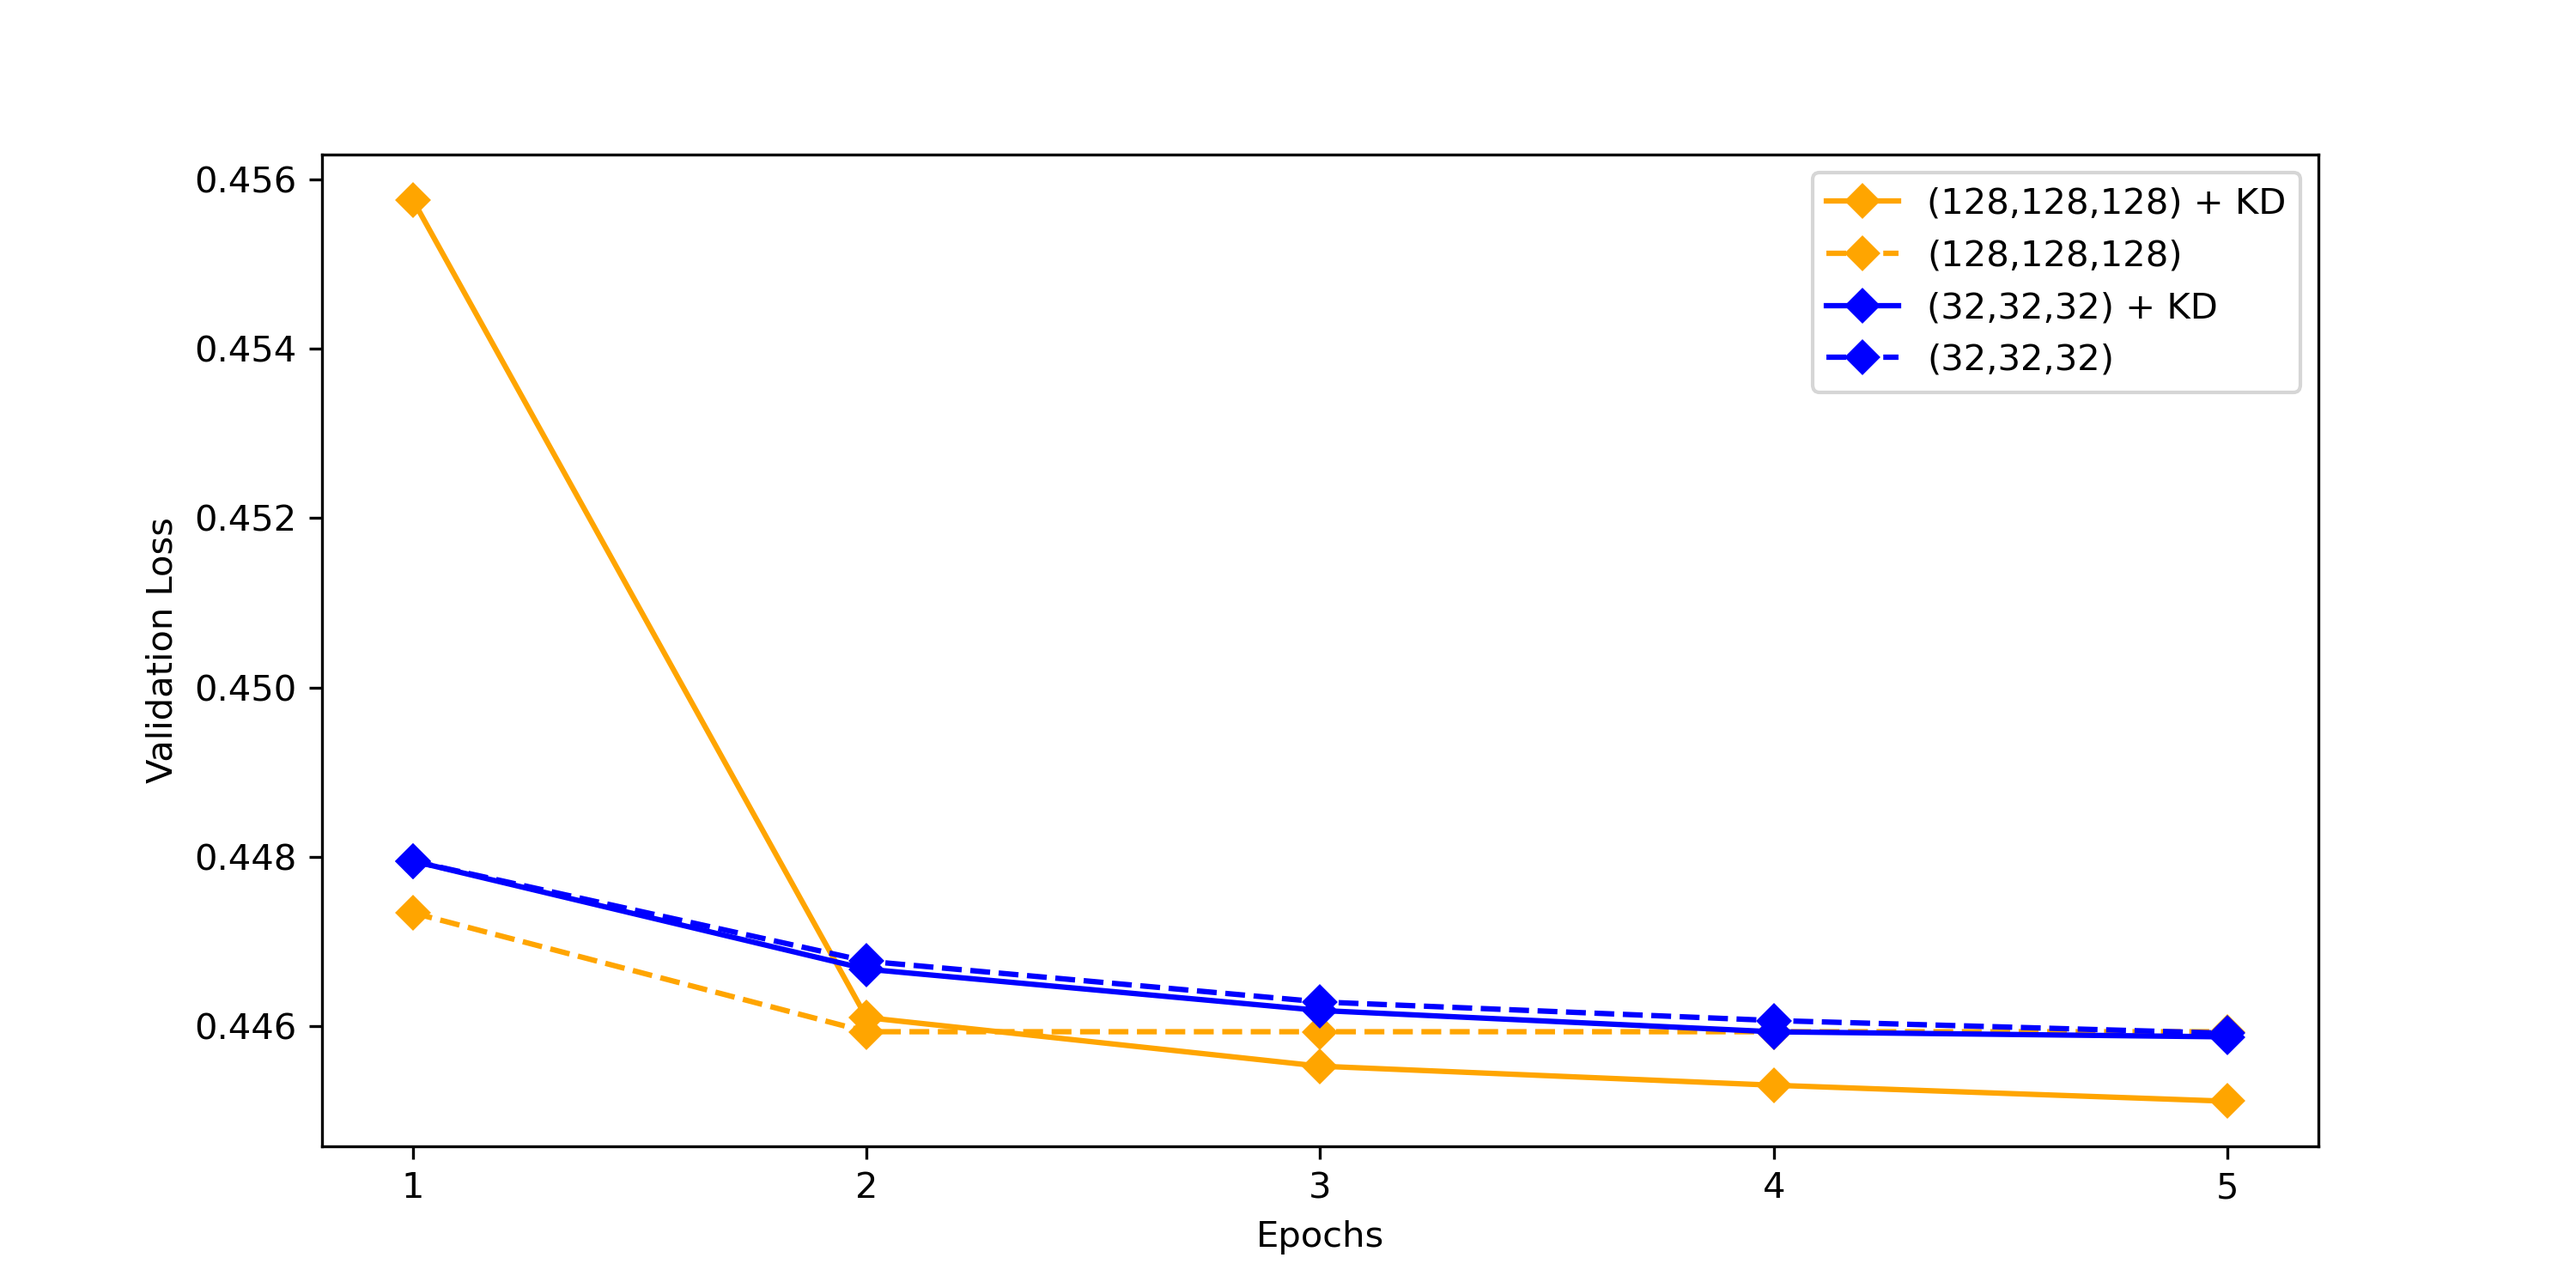
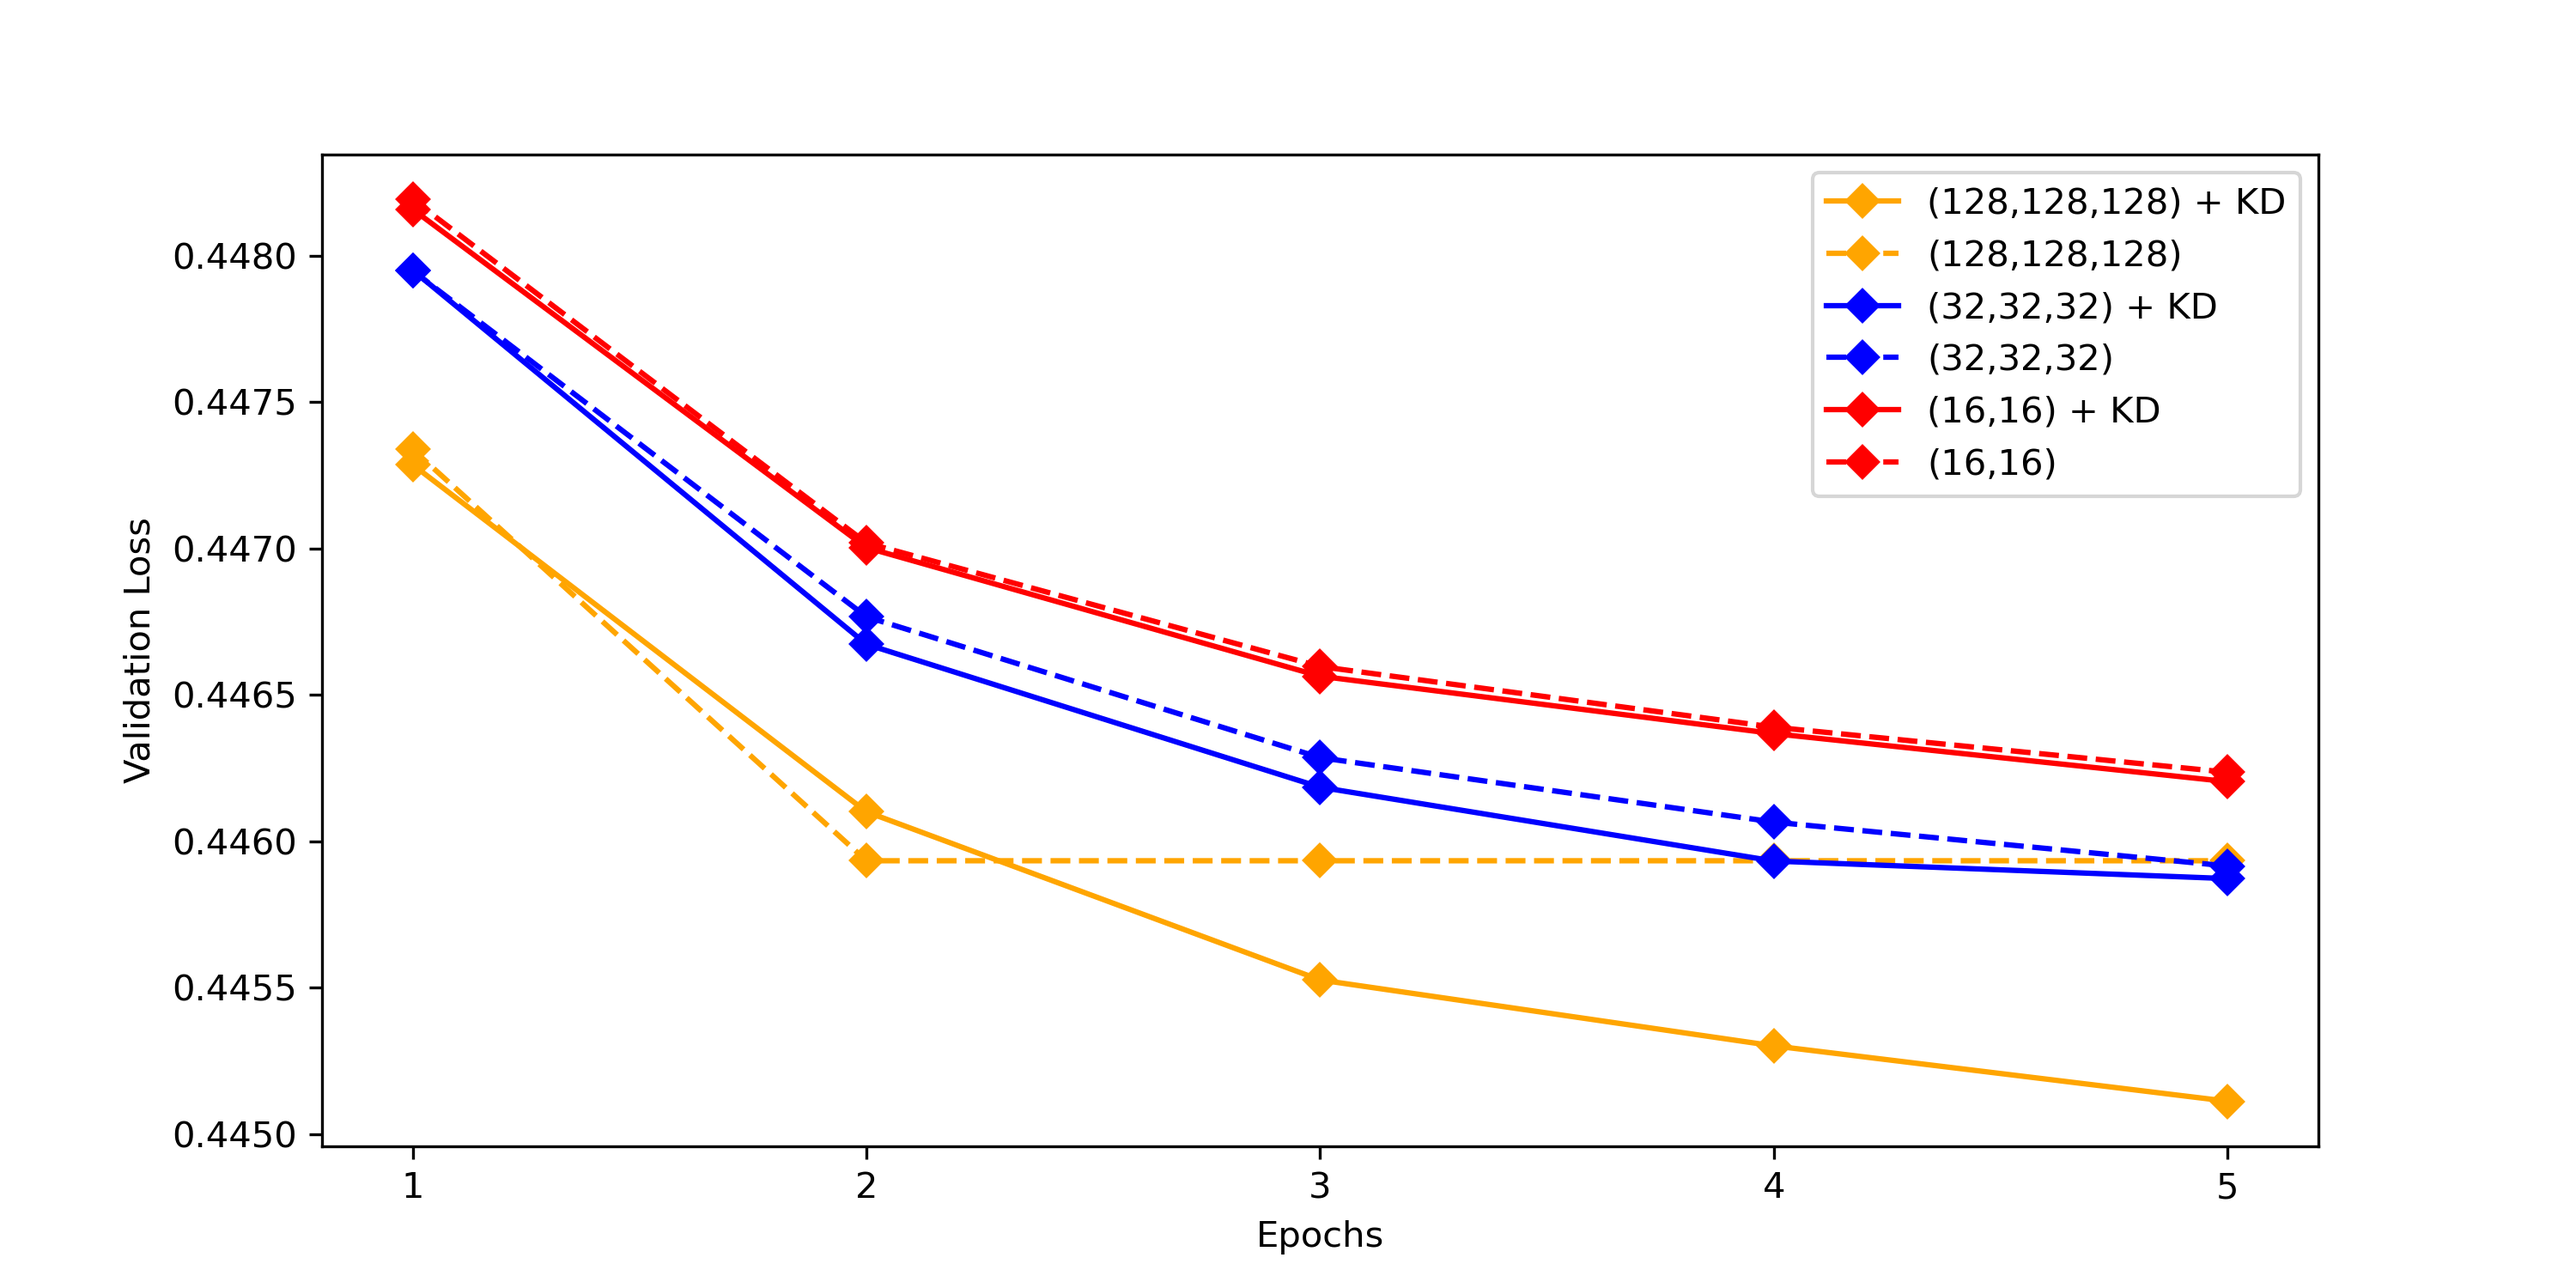
fix kd

diff --git a/kd.py b/kd.py
@@ -31,12 +31,11 @@ def main(dataset_name,
     loss, auc, prauc, rce = test(teacher_model, test_data_loader, criterion, device)
     print(f'teacher test loss: {loss:.6f} auc: {auc:.6f} prauc: {prauc:.4f} rce: {rce:.4f}')
 
-    #grid_dims = [(128, 128, 128), (64, 64, 64), (32, 32, 32), (16, 16)]
-    grid_dims = [(32, 32, 32), (16, 16)]
+    grid_dims = [(128, 128, 128), (64, 64, 64), (32, 32, 32), (16, 16)]
     for mlp_dims in grid_dims:
         student_model = get_model(model_name, dataset, mlp_dims=mlp_dims).to(device)
         optimizer = torch.optim.Adam(params=student_model.parameters(), lr=learning_rate, weight_decay=weight_decay)
-        early_stopper = EarlyStopper(num_trials=2, save_path=f'{model_path[:-3]}_kd_{mlp_dims}.pt')
+        early_stopper = EarlyStopper(num_trials=2, save_path=f'{model_path[:-3]}_kd_{mlp_dims}_{alpha}_{epochs}_epochs.pt')
         for epoch_i in range(epochs):
             train_kd(student_model, teacher_model, optimizer, criterion, train_data_loader, device, alpha=alpha, temperature=temperature)
             loss, auc, prauc, rce = test(student_model, valid_data_loader, criterion, device)
@@ -52,7 +51,7 @@ def main(dataset_name,
 
         small_model = get_model(model_name, dataset, mlp_dims=mlp_dims).to(device)
         optimizer = torch.optim.Adam(params=small_model.parameters(), lr=learning_rate, weight_decay=weight_decay)
-        early_stopper = EarlyStopper(num_trials=2, save_path=f'{model_path[:-3]}_small_{mlp_dims}.pt')
+        early_stopper = EarlyStopper(num_trials=2, save_path=f'{model_path[:-3]}_small_{mlp_dims}_{epochs}_epochs.pt')
         for epoch_i in range(epochs):
             train(small_model, optimizer, train_data_loader, criterion, device)
             loss, auc, prauc, rce = test(small_model, valid_data_loader, criterion, device)
@@ -72,9 +71,9 @@ if __name__ == '__main__':
 
     parser = argparse.ArgumentParser()
     parser.add_argument('--dataset_name', default='criteo')
-    parser.add_argument('--dataset_path', help='criteo/train.txt', default='./data/criteo/train.txt')
+    parser.add_argument('--dataset_path', help='criteo/train.txt', default='G:\\dac\\train_sss.txt')
     parser.add_argument('--epochs', type=int, default=5)
-    parser.add_argument('--model_path', help='path to checkpoint of model, only dfwfm', default='./saved_models/criteo_dfwfm(400, 400, 400)_emb_bag.pt')
+    parser.add_argument('--model_path', help='path to checkpoint of model, only dfwfm', default='./saved_models/criteo_dfwfm(400, 400, 400)_emb_bag_ssss.pt')
     parser.add_argument('--learning_rate', type=float, default=0.001)
     parser.add_argument('--batch_size', type=int, default=2048)
     parser.add_argument('--weight_decay', type=float, default=1e-6)

diff --git a/plot.py b/plot.py
@@ -4,16 +4,20 @@ import numpy as np
 
 def plot_kd_val_loss():
     epochs = np.arange(1, 6)
-    val_losses_128_student = [0.45576, 0.4461012, 0.445527, 0.445302, 0.445113]
+    val_losses_128_student = [0.447286, 0.4461012, 0.445527, 0.445302, 0.445113]
     val_losses_128_small = [0.447338, 0.445934, 0.445934, 0.445934, 0.445934]
     val_losses_32_student = [0.447950, 0.446673, 0.446185, 0.445933, 0.445873]
     val_losses_32_small = [0.447948, 0.446767, 0.446286, 0.446066, 0.445916]
+    val_losses_16_student = [0.448158, 0.447003, 0.446564, 0.446368, 0.446204]
+    val_losses_16_small = [0.448191, 0.447019, 0.446597, 0.446390, 0.446236]
 
     plt.figure(figsize=(10, 5))
     plt.plot(epochs, val_losses_128_student, label="(128,128,128) + KD", color="orange", marker='D')
     plt.plot(epochs, val_losses_128_small, label="(128,128,128)", linestyle="dashed", color="orange", marker='D')
     plt.plot(epochs, val_losses_32_student, label="(32,32,32) + KD", color="blue", marker='D')
     plt.plot(epochs, val_losses_32_small, label="(32,32,32)", linestyle="dashed", color="blue", marker='D')
+    plt.plot(epochs, val_losses_16_student, label="(16,16) + KD", color="red", marker='D')
+    plt.plot(epochs, val_losses_16_small, label="(16,16)", linestyle="dashed", color="red", marker='D')
     plt.xlabel("Epochs")
     plt.xticks(np.arange(1, 6, 1.0))
     plt.ylabel("Validation Loss")

diff --git a/model/util.py b/model/util.py
@@ -120,7 +120,6 @@ def train_kd(student_model, teacher_model, optimizer, criterion, data_loader, de
         output_teacher = teacher_model(fields)
 
         loss = loss_fn_kd(output_student, output_teacher, target.float(), alpha, temperature)
-        loss = criterion(output_student, target.float())
 
         optimizer.zero_grad()
 
@@ -143,8 +142,7 @@ def loss_fn_kd(outputs, teacher_outputs, y, alpha, temperature):
     """
     kd_loss = torch.nn.KLDivLoss()(torch.nn.functional.log_softmax(outputs / temperature, dim=0),
                                 torch.nn.functional.softmax(teacher_outputs / temperature, dim=0)) * (alpha * temperature * temperature) + \
-                torch.nn.functional.binary_cross_entropy_with_logits(outputs, y) * (1. - alpha)
-
+                torch.nn.functional.binary_cross_entropy(outputs, y) * (1. - alpha) # TODO update in thesis
     return kd_loss
 
 

diff --git a/README.md b/README.md
@@ -35,14 +35,18 @@ This repository is part of my master thesis.
 | EmbeddingBag    | Dynamic       | (400,400,400) | 0.4455    | 0.8076 | 0.6143    | 22.02 | 11,959,223    |  48.35    |  
 | EmbeddingBag    | Static        | (400,400,400) | 0.4456    | 0.8076 | 0.6142    | 22.01 | NaN           |  24.46    | 
 | EmbeddingBag    | QAT           | (400,400,400) | 0.4459    | 0.8073 | 0.6135    | 21.94 | NaN           |  24.46    | 5 Epochs
-| EmbeddingBag    | None          | (128,128,128) | 0.4461    | 0.8070 | 0.6131    | 21.91 | ----------    |  ------   | KD 
-| EmbeddingBag    | None          | (128,128,128) | 0.4459    | 0.8072 | 0.6135    | 22.95 | ----------    |  ------   | without KD 
+| EmbeddingBag    | None          | (128,128,128) | 0.4461    | 0.8070 | 0.6131    | 21.91 | 12,040,792    |  48.189   | KD  
+| EmbeddingBag    | None          | (128,128,128) | 0.4459    | 0.8072 | 0.6135    | 22.95 | 12,040,792    |  48.189   | without KD 
+| EmbeddingBag    | None          | (128,128,128) | 0.4482    | 0.8046 | ----------------------------------------------| KD, alpha 0.9, 1 epoch
+| EmbeddingBag    | None          | (128,128,128) | 0.4483    | 0.8046 | ----------------------------------------------| KD, alpha 0.5, 1 epoch
+| EmbeddingBag    | None          | (128,128,128) | 0.4483    | 0.8046 | ----------------------------------------------| KD, alpha 0.1, 1 epoch *
+| EmbeddingBag    | None          | (128,128,128) | 0.4483    | 0.8046 | ----------------------------------------------| without KD, 1 epoch
 | EmbeddingBag    | None          | (64,64,64)    | 0.4466    | 0.8065 | 0.6121    | 21.83 | 11,956,822    |  47.842   | KD
 | EmbeddingBag    | None          | (64,64,64)    | 0.4467    | 0.8064 | 0.6121    | 21.81 | 11,956,822    |  47.842   | without KD 
 | EmbeddingBag    | None          | (32,32,32)    | 0.4470    | 0.8061 | 0.6112    | 21.75 | 11,971,672    |  47.911   | KD * TODO more parameters? why?
-| EmbeddingBag    | None          | (32,32,32)    | 0.4470    | 0.8060 | 0.6112    | 21.75 | 11,971,672    |  47.842   | without KD 
-| EmbeddingBag    | None          | (16,16,16)    | 0.4424    | 0.8091 | 0.6131    | 22.24 | 11,956,822    |  47.842   | KD 
-| EmbeddingBag    | None          | (16,16,16)    | 0.4424    | 0.8091 | 0.6131    | 22.24 | 11,956,822    |  47.842   | without KD 
+| EmbeddingBag    | None          | (32,32,32)    | 0.4470    | 0.8060 | 0.6112    | 21.75 | 11,971,672    |  47.911   | without KD 
+| EmbeddingBag    | None          | (16,16)       | 0.4473    | 0.8058 | 0.6107    | 21.70 | 11,963,432    |  47.875   | KD 
+| EmbeddingBag    | None          | (16,16)       | 0.4474    | 0.8057 | 0.6107    | 21.70 | 11,963,432    |  47.875   | without KD 
 
 #### Embeddings
 | Embedding       |  # Deep Nodes | 1 (CPU) | 8     | 16     | 32     | 64     | 128    | 256     | 512     | 1024    | 512 (GPU) | 1024    | 2048    | 4096    | Notes |
